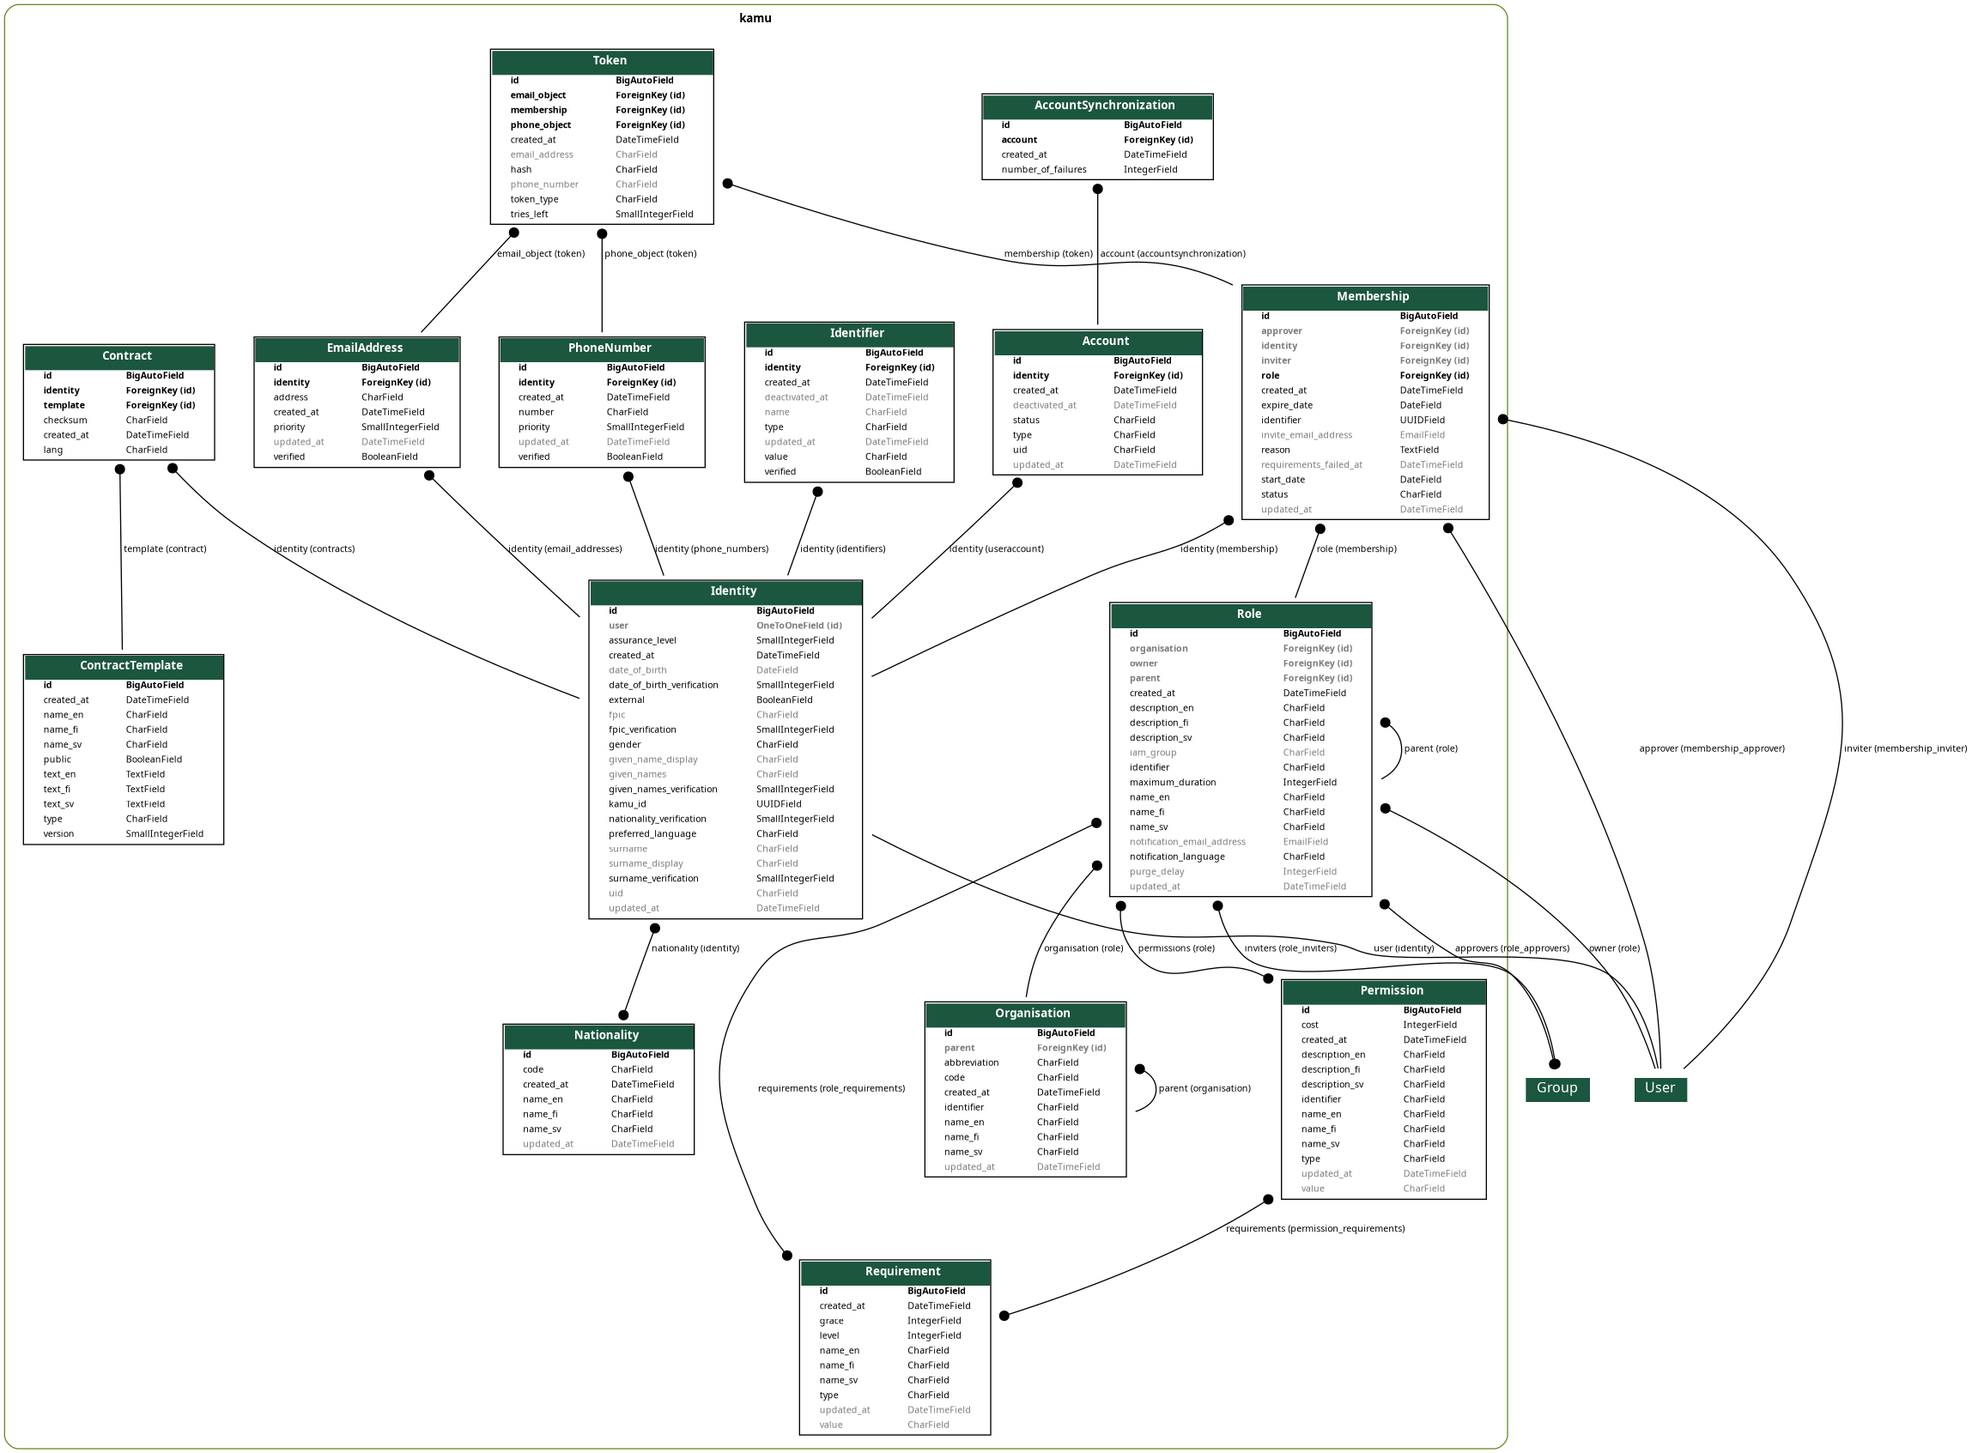
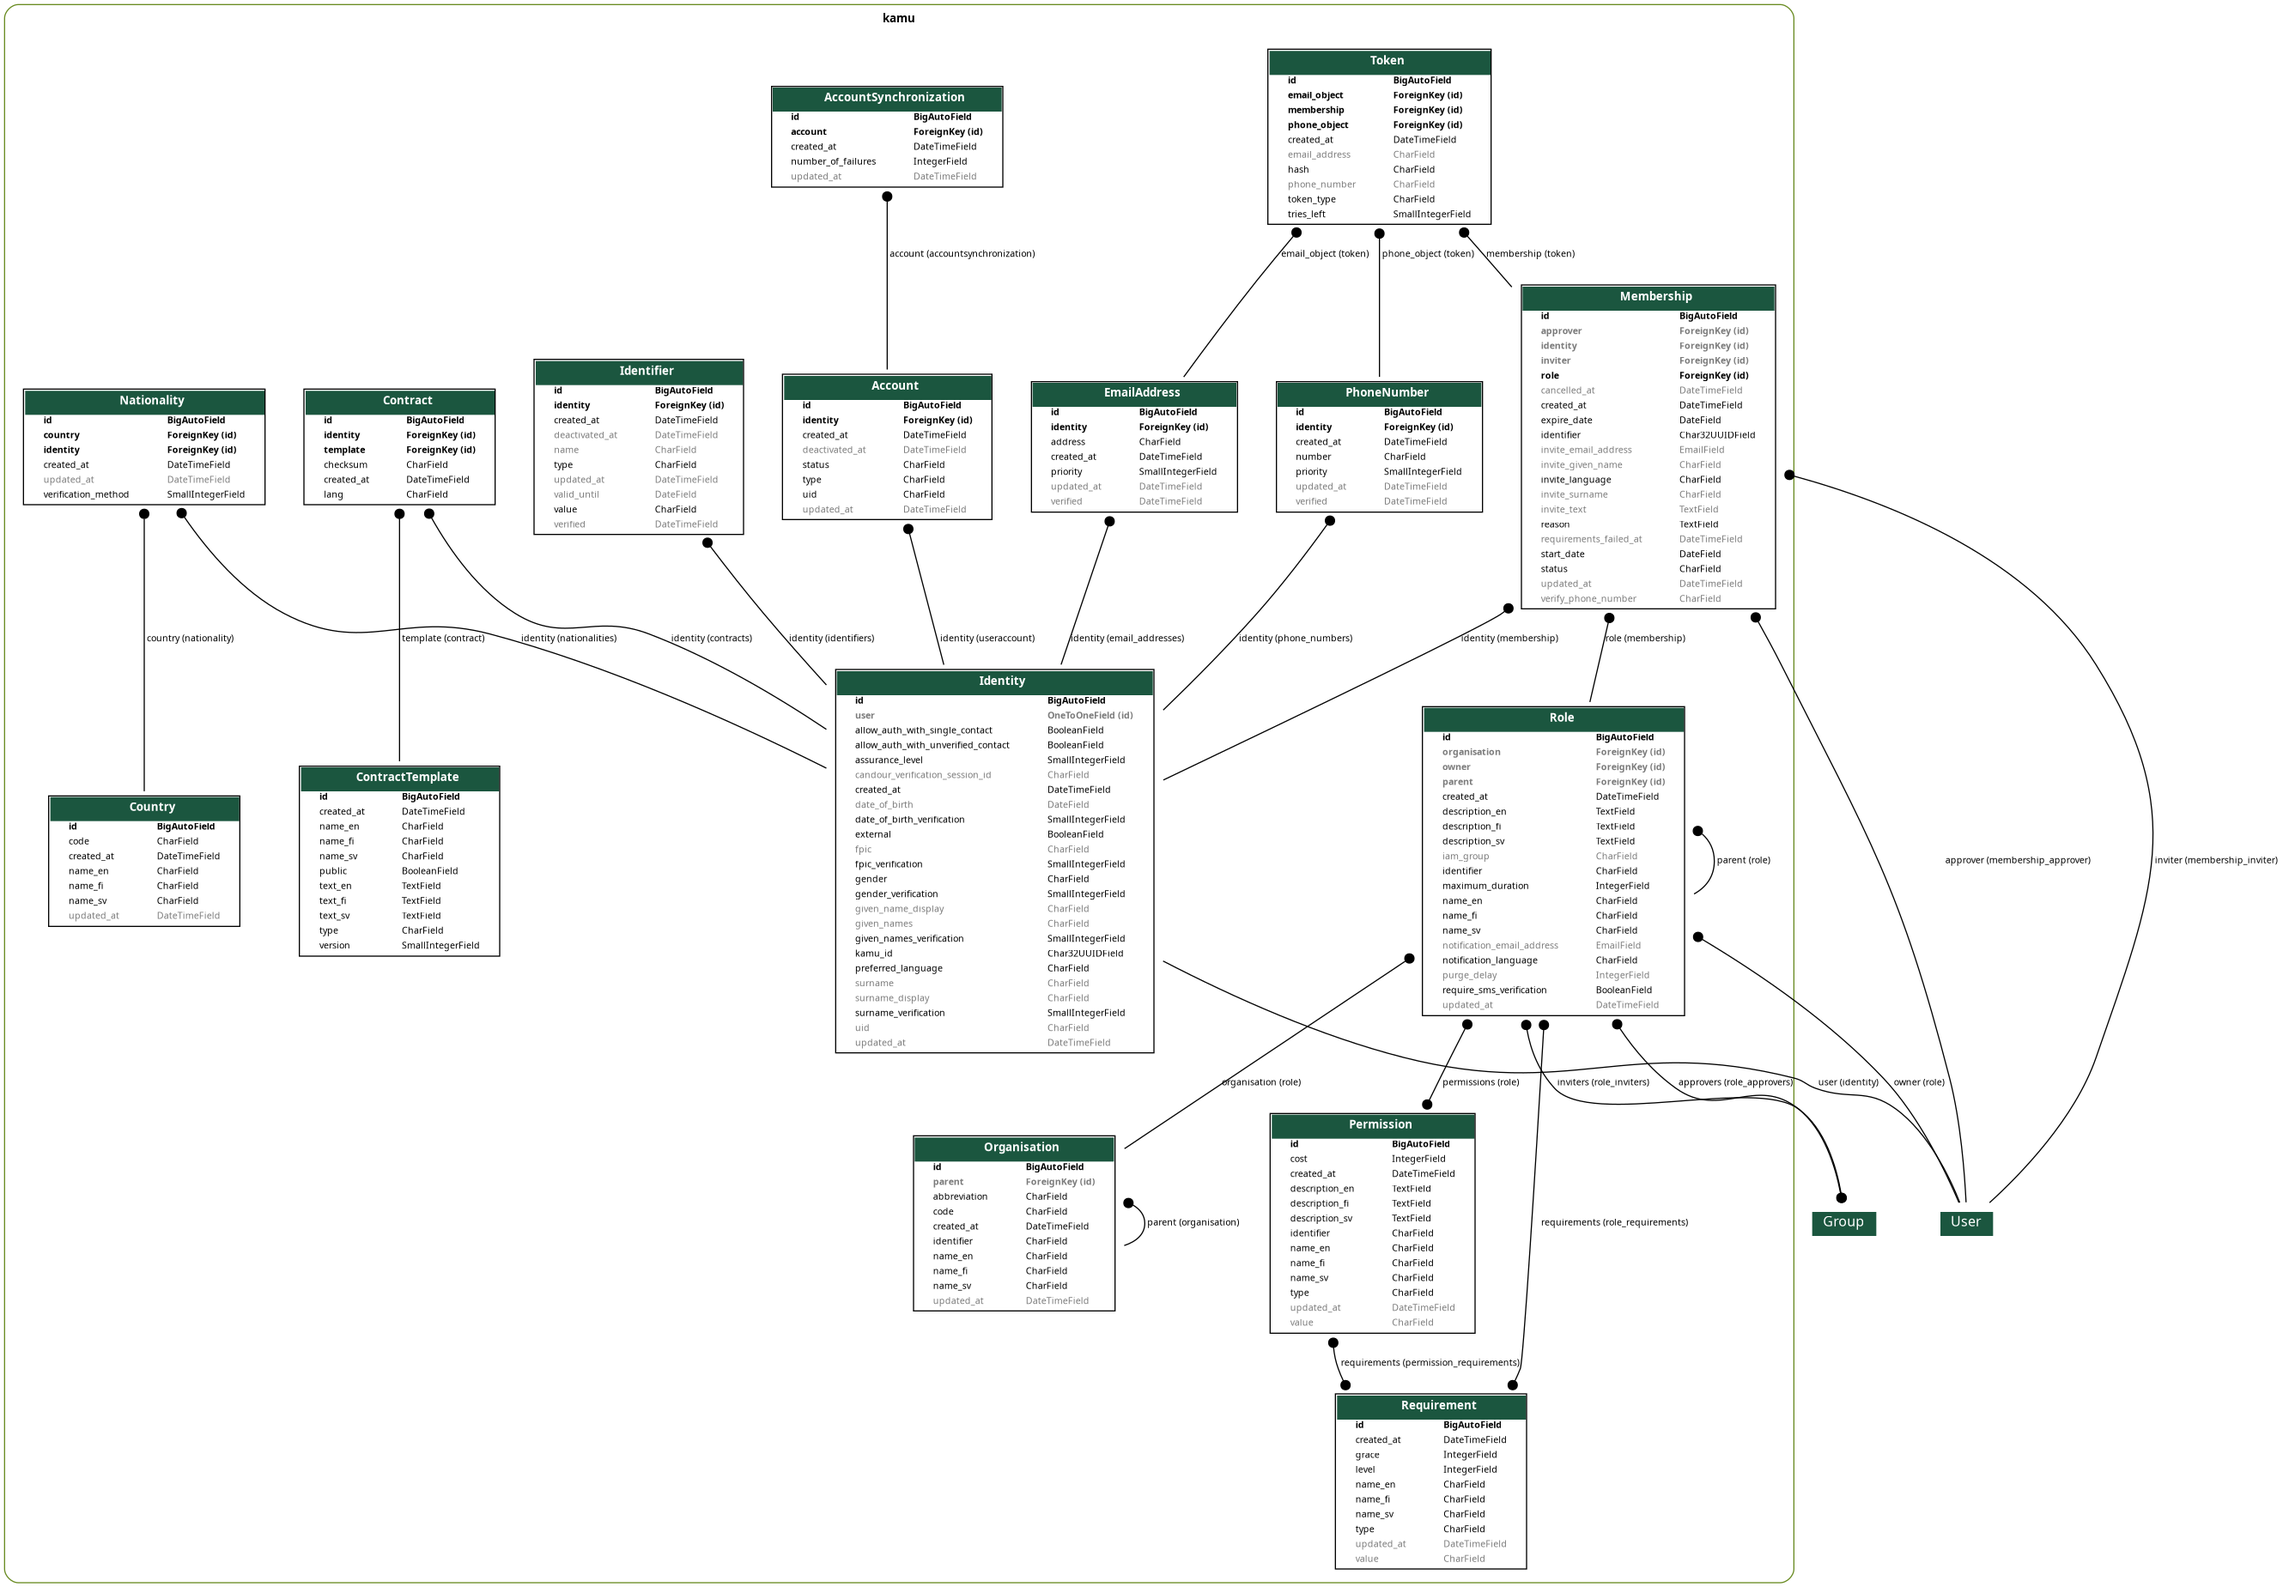
Fixed errors in docs
- Graph model was outdated
- Updated graph instructions and script to uv
- Fixed too short underline
- Added instruction for uv --no-dev in production

diff --git a/docs/content/contributing.rst b/docs/content/contributing.rst
@@ -45,9 +45,10 @@ We use Sphinx for documentation. Update docs/ directory as needed.
 
 To compile the documentation, run the following command::
 
-    pip install -r requirement_dev.txt  # If you haven't installed development requirements yet.
+    uv sync  # If you haven't installed development requirements yet.
     make -C docs html
 
 If you are making changes to database, also update the database graph. There is a script to do that::
 
+    uv sync --group graph  # Sync graph dependencies if you haven't installed them yet.
     sh update_model_graph.sh

diff --git a/docs/content/installation.rst b/docs/content/installation.rst
@@ -30,6 +30,7 @@ Clone the repository and install the dependencies::
     uv sync
       # Install dependencies using uv, creating .venv directory for the virtual environment.
       # Use --extra mysql or --extra postgresql to install database driver.
+      # Use --no-dev to skip development dependencies in production environment.
     source .venv/bin/activate
       # Activate the virtual environment,
       # or use "uv run <command>" to run commands in the virtual environment

diff --git a/docs/modules/connectors.rst b/docs/modules/connectors.rst
@@ -17,7 +17,7 @@ LDAP
     :members:
 
 Organisation
-----
+------------
 .. automodule:: kamu.connectors.organisation
     :members:
 
